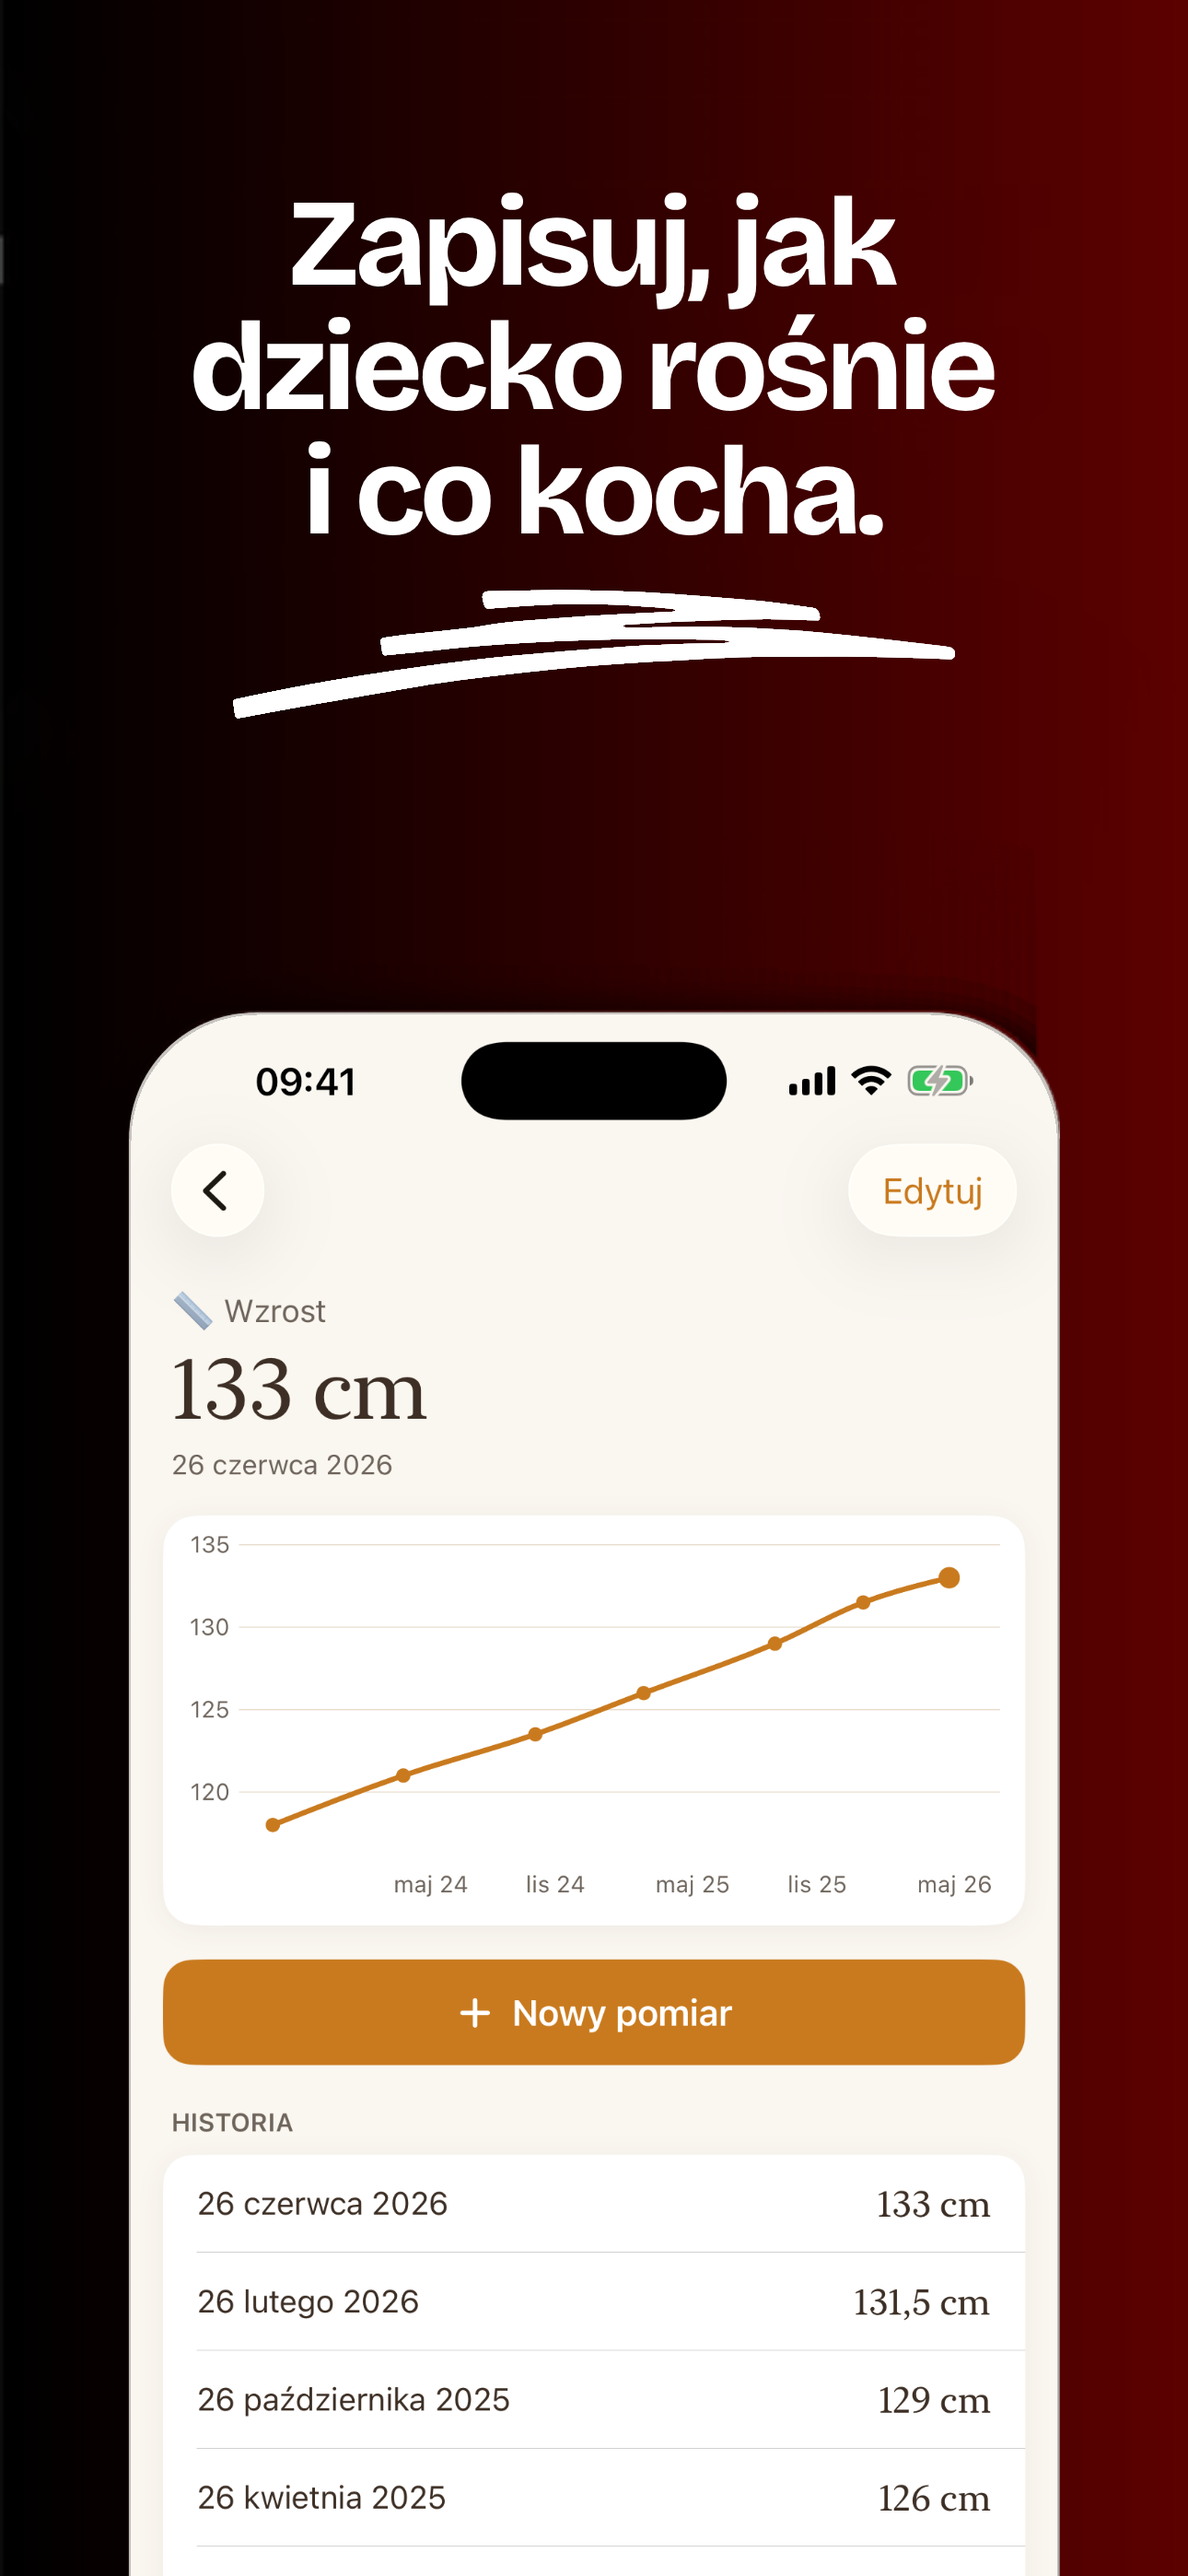
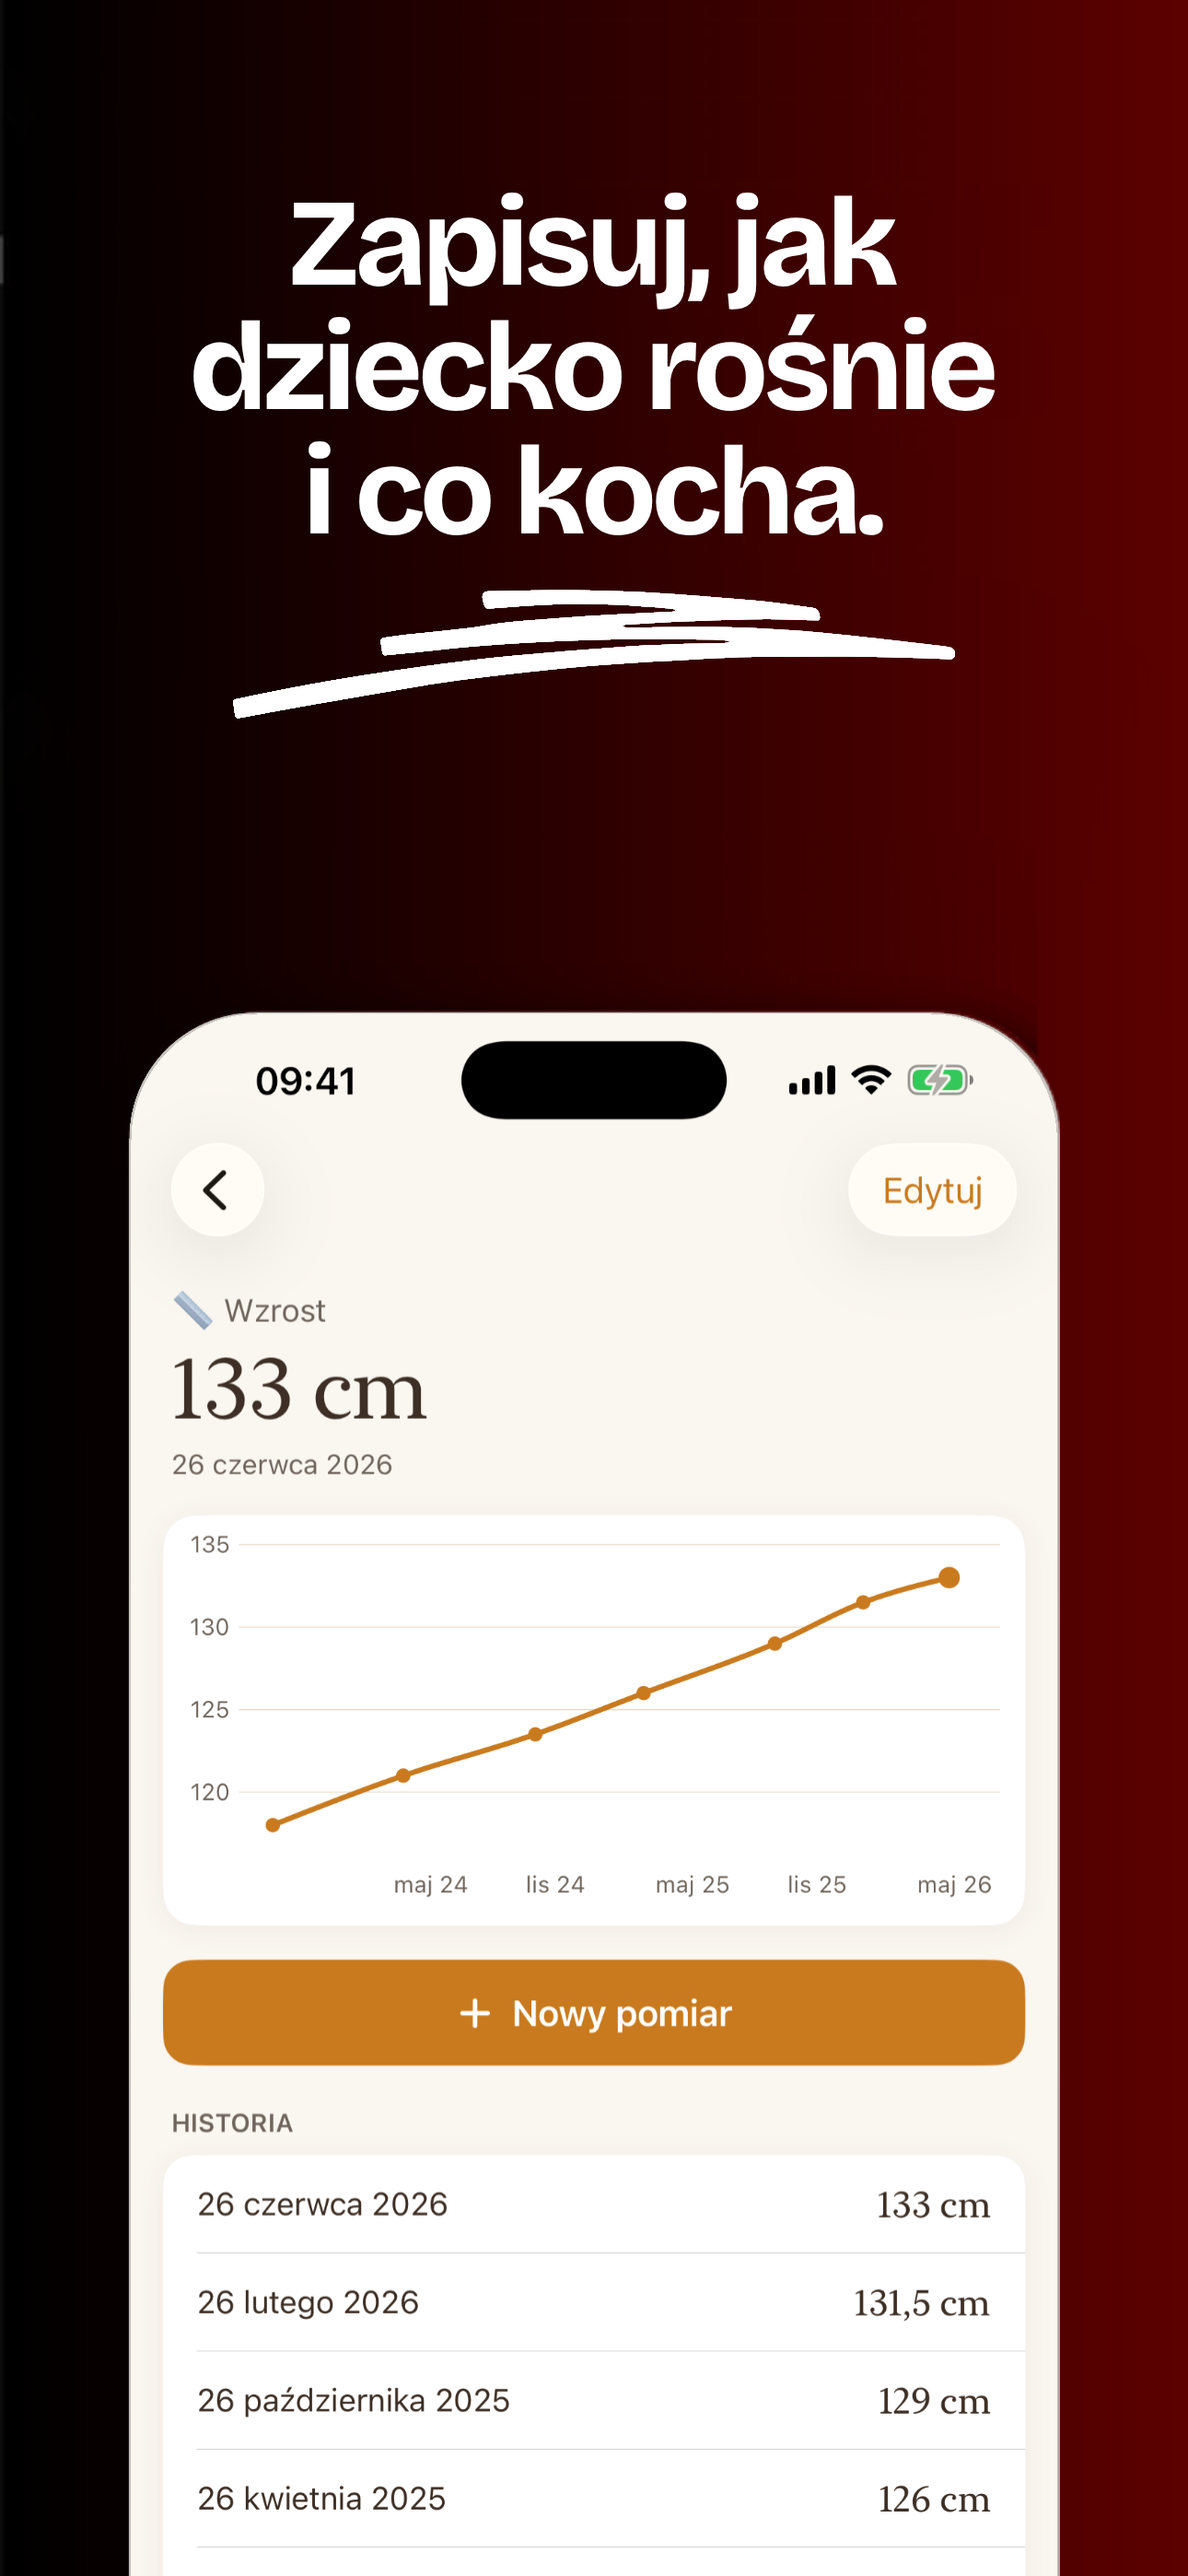
Redo the sharpening without covering Canva's text and shadows
The first pass used positions.json and the full layer alpha, so it hid the
page 4 caption and brought back hard baked shadows on pages 1-2. Now the
phone is drawn at Canva's exact imageBox, only its opaque body and screen
are replaced, and the areas under Canva-only elements (page 4 caption,
Amberloom pill) are kept from the export.

Claude-Session: https://claude.ai/code/session_01RysN6u6ztiAhNhJ4pBs71C

diff --git a/design/sharpen_exports.py b/design/sharpen_exports.py
@@ -1,11 +1,14 @@
 """Put the full-resolution phone and doodle layers back over the Canva exports in images/<lang>/.
 
-Canva resamples placed images when it exports, so the phone screens come out soft. This keeps the
-export's background and live headline text, and re-draws every layer from the phone up (in the
-order of design/canva/amberloom-app-store-<lang>.html) from design/canva-layers/ at its position.
-Run it after saving a fresh Canva export:  python3 design/sharpen_exports.py
+Canva keeps a downsampled copy of every placed image, so the phone screens in its PNG export come
+out soft. This keeps the export (background, headlines, the Amberloom pill, the page 4 caption) and
+re-draws the phone and the doodles above it from design/canva-layers/, at the exact box Canva draws
+them in (Canva stretches each phone by a fraction of a percent, so the boxes below come from
+read-design's imageBox, not from positions.json). Areas covered by Canva-only elements that sit
+above the phone (text, the pill) are left as exported.
+Run it right after saving a fresh Canva export:  python3 design/sharpen_exports.py
 """
-import json, os, re
+import json, os
 import cv2
 import numpy as np
 
@@ -14,21 +17,45 @@ LAYERS = os.path.join(HERE, 'canva-layers')
 IMAGES = os.path.join(HERE, '..', 'images')
 pos = json.load(open(os.path.join(LAYERS, 'positions.json')))
 
+# phone imageBox in Canva (page coordinates): top offset and drawn height; left/width match positions.json
+PHONE_BOX = {1: (-0.1485, 2156.297), 2: (-1.4783, 2686.957), 3: (-2.4084, 2208.817),
+             4: (-0.2811, 1940.562), 5: (-1.4680, 2174.936), 6: (-1.1071, 1898.214)}
+# layers drawn above the phone in Canva, back to front
+ABOVE = {1: ['doodle_{l}1_0', 'doodle_{l}1_1'], 2: [], 3: ['books_{l}3', 'doodle_{l}3_0', 'doodle_{l}3_1'],
+         4: ['doodle_{l}4_0', 'doodle_{l}4_1', 'doodle_{l}4_2'], 5: ['doodle_{l}5_0'], 6: ['doodle_{l}6_0']}
+# Canva-only elements above the phone (left, top, right, bottom): keep the export there
+KEEP = {2: [(556, 2493, 1247, 2728)],          # Amberloom pill
+        4: [(0, 2420, 1290, 2700)]}            # "Start with one moment..." caption
+
+def draw(out, lay, x, y, w, h, solid_only=False):
+    """Alpha-composite lay resized to w x h (float) at (x, y) (float) onto out.
+    solid_only: draw only the (near) opaque phone body and screen, not the baked soft shadow,
+    which Canva renders softer than the layer file; the export keeps its shadow there."""
+    M = np.float32([[w / lay.shape[1], 0, x], [0, h / lay.shape[0], y]])
+    H, W = out.shape[:2]
+    warped = cv2.warpAffine(lay, M, (W, H), flags=cv2.INTER_LINEAR, borderMode=cv2.BORDER_CONSTANT, borderValue=0)
+    a = warped[..., 3:4].astype(np.float32) / 255
+    if solid_only:
+        a = np.clip((a - 0.9) / 0.1, 0, 1)
+    return out * (1 - a) + warped[..., :3].astype(np.float32) * a
+
 for lang in ['en', 'pl']:
-    html = open(os.path.join(HERE, 'canva', f'amberloom-app-store-{lang}.html')).read()
-    order = list(dict.fromkeys(re.findall(r'(?:phone|doodle|books|bg)_' + lang + r'\d(?:_\d)?', html)))
     for p in range(1, 7):
-        page = [o for o in order if re.fullmatch(r'\w+_' + lang + str(p) + r'(_\d)?', o)]
-        top = page[page.index(f'phone_{lang}{p}'):]
         path = os.path.join(IMAGES, lang, f'image{p}.png')
-        out = cv2.imread(path).astype(np.float32)
-        H, W = out.shape[:2]
-        for name in top:
-            q = pos[name.replace('phone_', '') if name.startswith('phone') else name]
-            lay = cv2.imread(os.path.join(LAYERS, name + '.png'), cv2.IMREAD_UNCHANGED)
-            x, y = q['left'], q['top']
-            h, w = min(lay.shape[0], H - y), min(lay.shape[1], W - x)
-            a = lay[:h, :w, 3:4].astype(np.float32) / 255
-            out[y:y + h, x:x + w] = out[y:y + h, x:x + w] * (1 - a) + lay[:h, :w, :3] * a
+        exp = cv2.imread(path).astype(np.float32)
+        out = exp.copy()
+        q = pos[f'{lang}{p}']
+        top, hgt = PHONE_BOX[p]
+        phone = cv2.imread(os.path.join(LAYERS, f'phone_{lang}{p}.png'), cv2.IMREAD_UNCHANGED)
+        out = draw(out, phone, q['left'], q['top'] + top, q['width'], hgt, solid_only=True)
+        for name in ABOVE[p]:
+            name = name.format(l=lang)
+            if name not in pos:
+                continue
+            d = pos[name]
+            out = draw(out, cv2.imread(os.path.join(LAYERS, name + '.png'), cv2.IMREAD_UNCHANGED),
+                       d['left'], d['top'], d['width'], d['height'])
+        for (x0, y0, x1, y1) in KEEP.get(p, []):
+            out[y0:y1, x0:x1] = exp[y0:y1, x0:x1]
         cv2.imwrite(path, np.clip(out + 0.5, 0, 255).astype(np.uint8))
-        print(path, top)
+        print(path)
